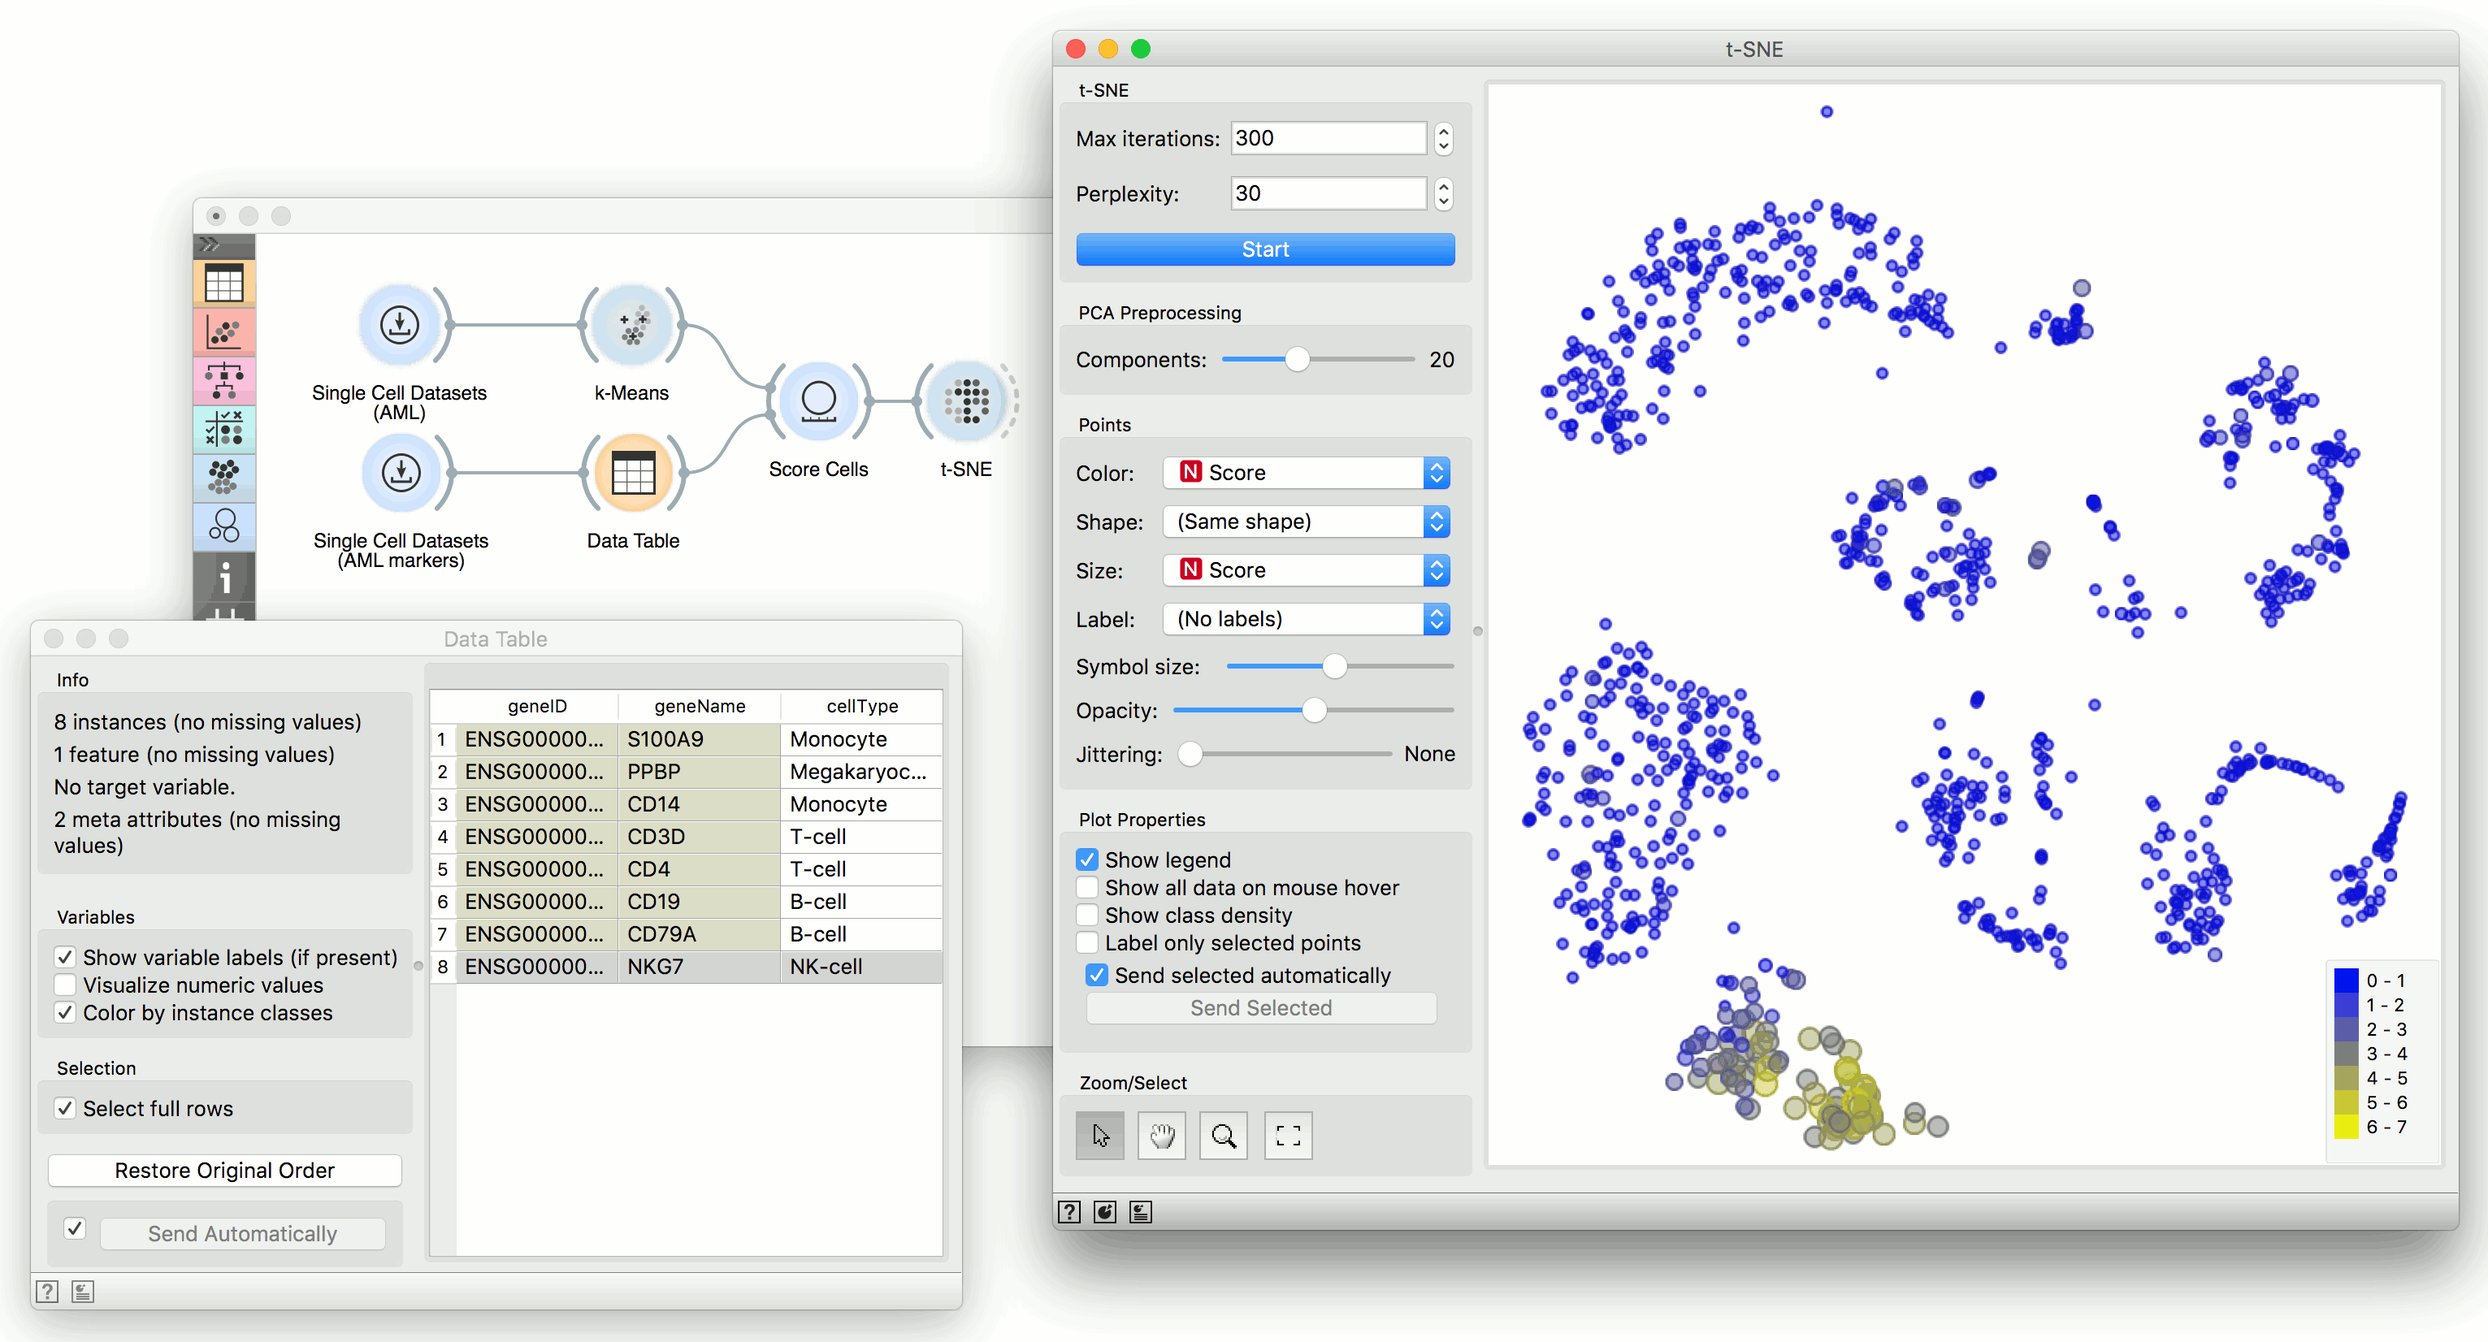
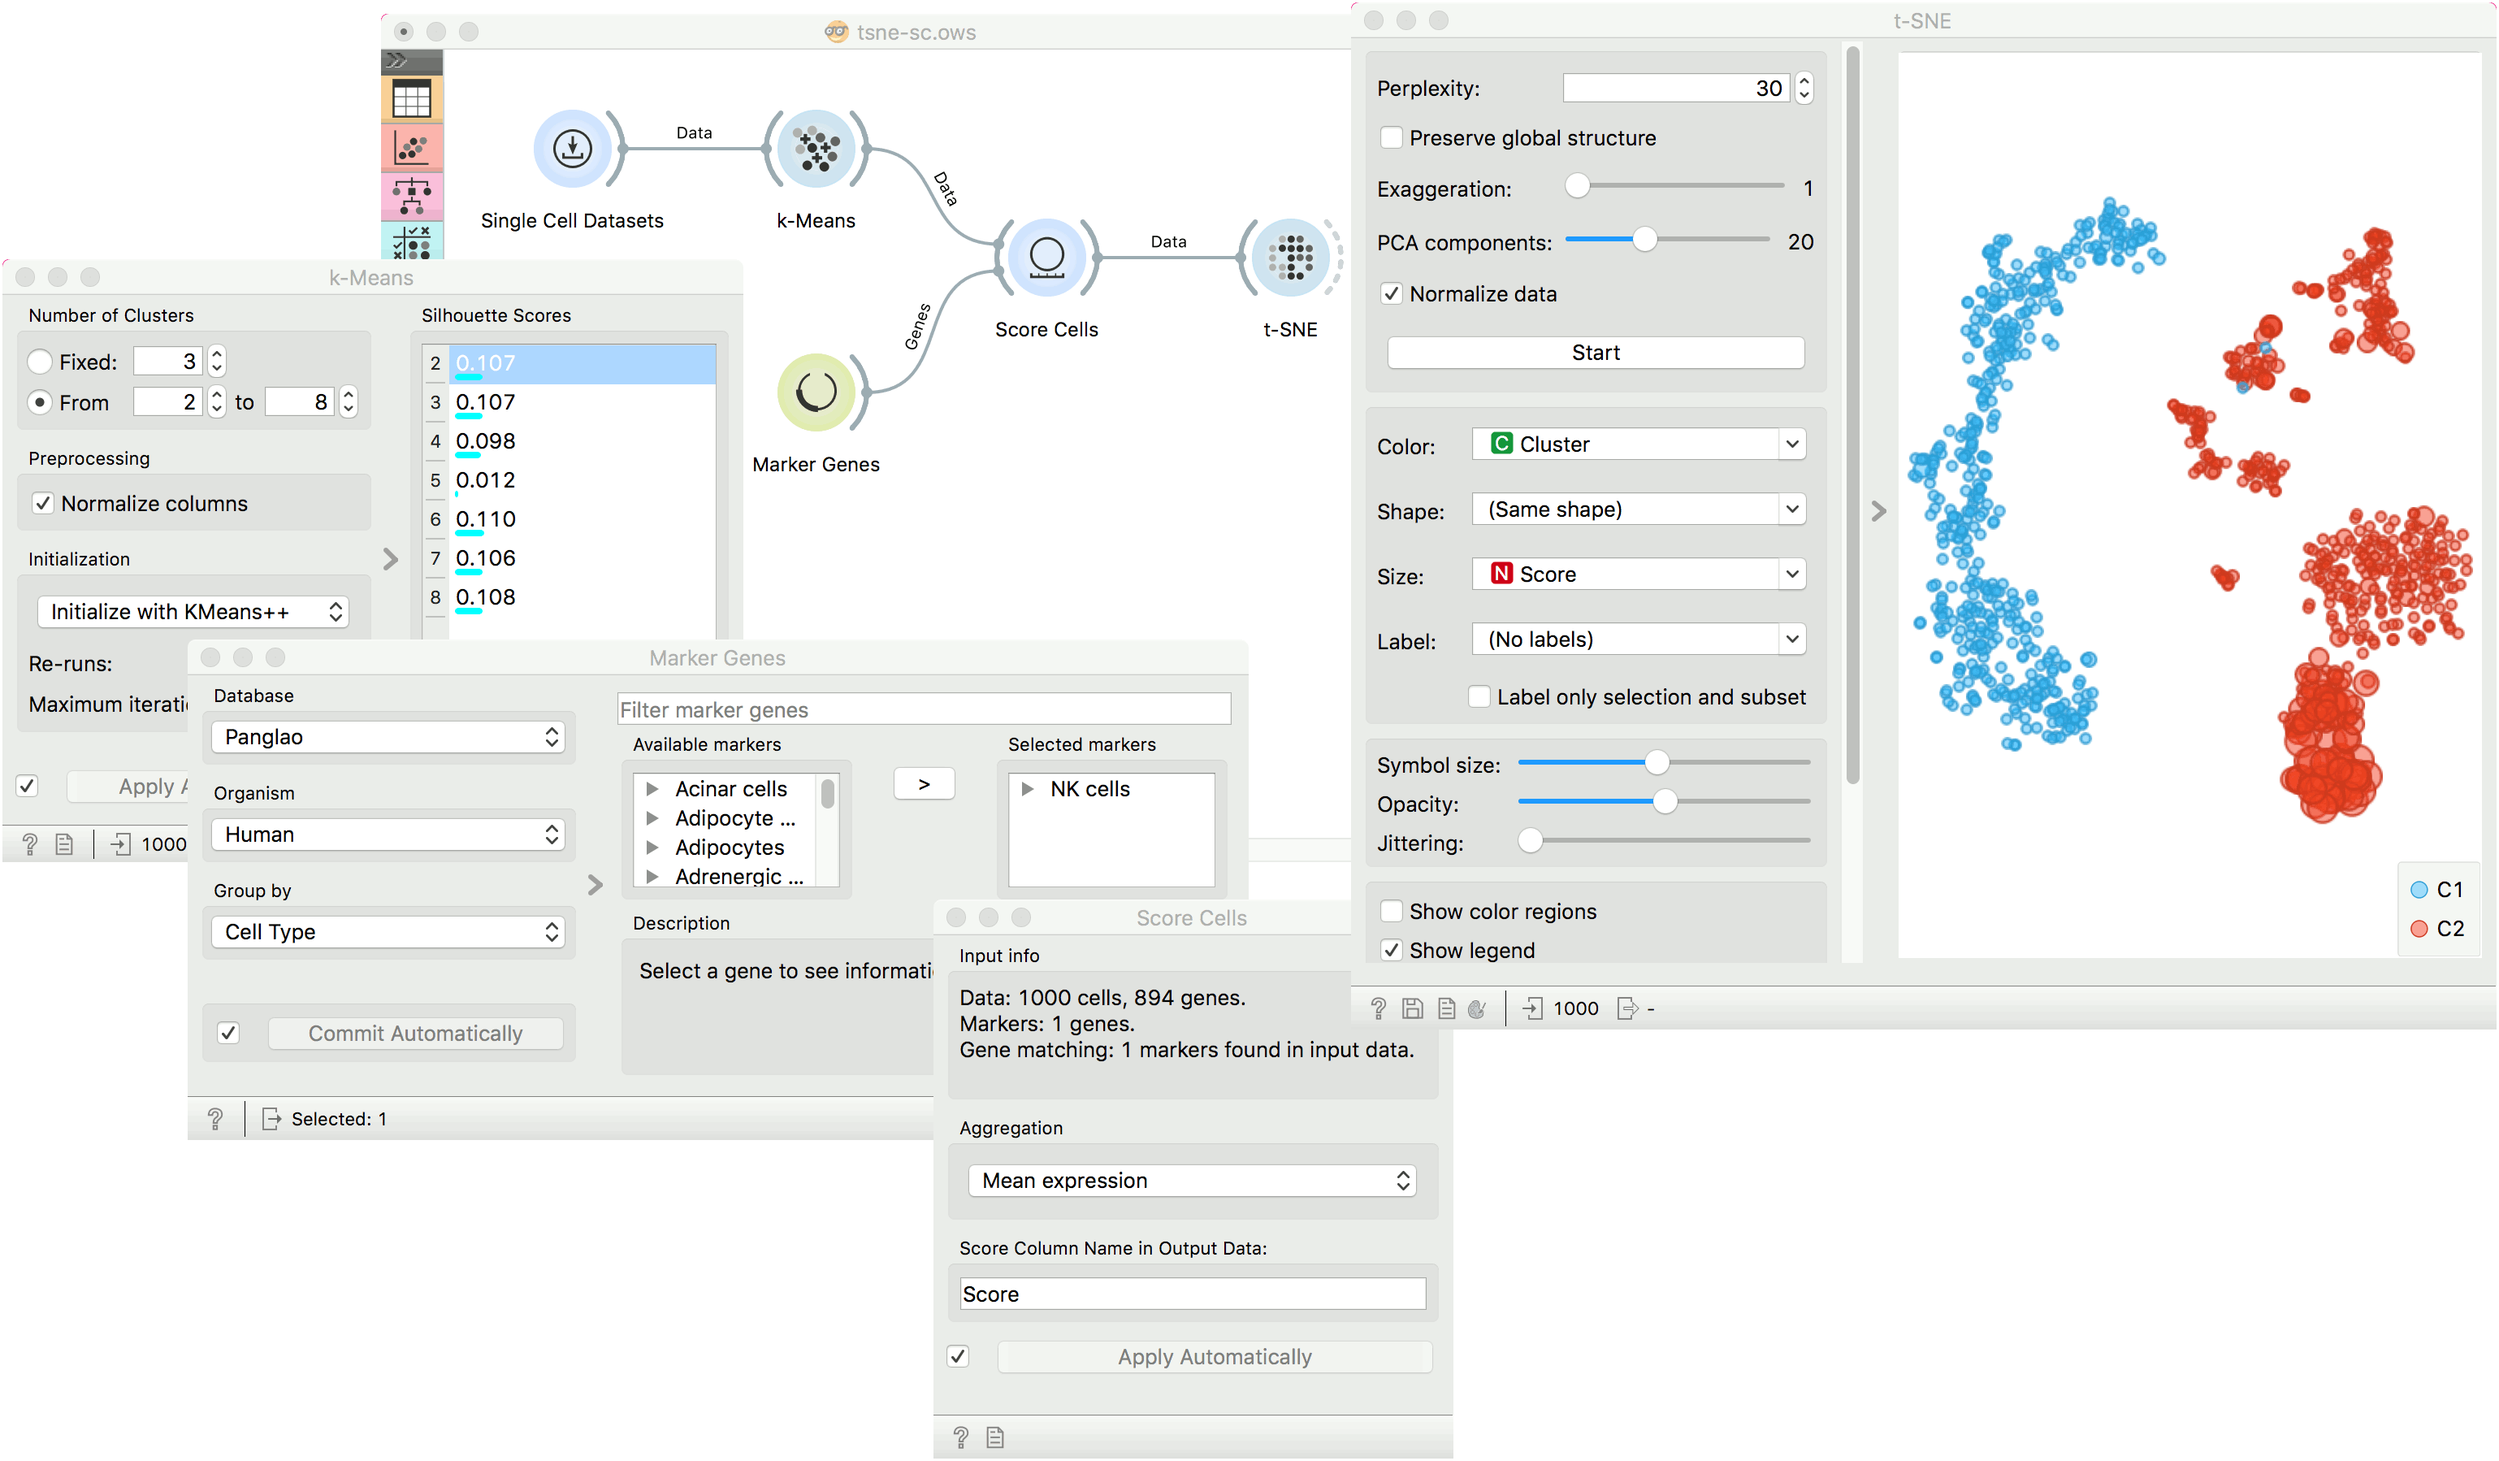
Update final workflow

diff --git a/source/widgets/unsupervised/tsne.md b/source/widgets/unsupervised/tsne.md
@@ -37,12 +37,10 @@ The first example is a simple t-SNE plot of *brown-selected* data set. Load *bro
 
 ![](images/tSNE-Example1.png)
 
-For the second example, we will use [Single Cell Datasets](https://orangedatamining.com/widget-catalog/single-cell/single_cell_datasets/) widget from the Single Cell add-on to load *Bone marrow mononuclear cells with AML (sample)* data. Then we will pass it through **k-Means** and select 2 clusters from Silhouette Scores. Ok, it looks like there might be two distinct clusters here.
+For the second example, use [Single Cell Datasets](https://orangedatamining.com/widget-catalog/single-cell/single_cell_datasets/) widget from the Single Cell add-on to load *Bone marrow mononuclear cells with AML (sample)* data. Then pass it through **k-Means** and select 2 clusters from Silhouette Scores. Ok, it looks like there might be two distinct clusters here.
 
-But can we find subpopulations in these cells? Let us load *Bone marrow mononuclear cells with AML (markers)* with **Single Cell Datasets**. Now, pass the marker genes to **Data Table** and select, for example, natural killer cells from the list (NKG7).
+But can we find subpopulations in these cells? Select a few marker genes with the [Marker Genes](https://orangedatamining.com/widget-catalog/bioinformatics/marker_genes/) widget, for example natural killer cells (NK cells). Pass the marker genes and k-Means results to [Score Cells](https://orangedatamining.com/widget-catalog/single-cell/score_cells/) widget. Finally, add **t-SNE** to visualize the results.
 
-Pass the markers and k-Means results to [Score Cells](https://orangedatamining.com/widget-catalog/single-cell/score_cells/) widget and select *geneName* to match markers with genes. Finally, add **t-SNE** to visualize the results.
-
-In **t-SNE**, use *Scores* attribute to color the points and set their size. We see that killer cells are nicely clustered together and that t-SNE indeed found subpopulations.
+In **t-SNE**, use *Cluster* attribute to color the points and *Score* attribute to set their size. We see that killer cells are nicely clustered together and that t-SNE indeed found subpopulations.
 
 ![](images/tSNE-Example2.png)
